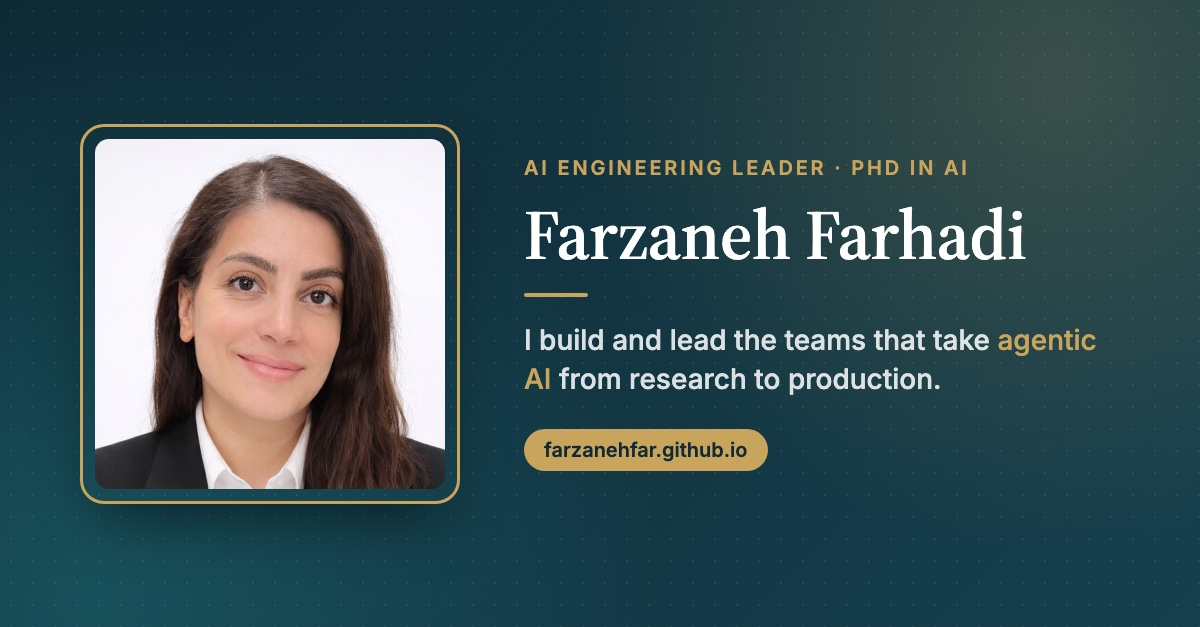
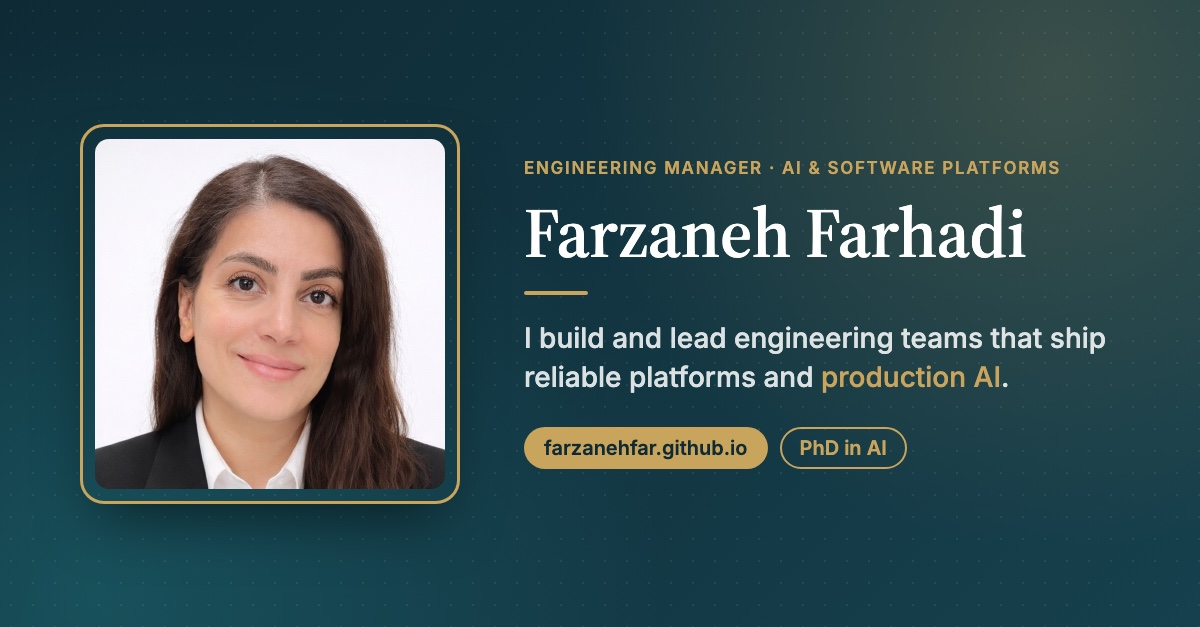
Add files via upload
updated a new blog post.

diff --git a/writing/building-an-agentic-ai-team.html b/writing/building-an-agentic-ai-team.html
@@ -1,0 +1,174 @@
+<!DOCTYPE html>
+<html lang="en-GB">
+<head>
+  <meta charset="UTF-8">
+  <meta name="viewport" content="width=device-width, initial-scale=1.0">
+  <title>Building an agentic AI team: hire some, grow the rest · Farzaneh Farhadi</title>
+  <meta name="description" content="How to build an agentic AI team: the roles you need, who to hire first, how to grow software engineers into AI engineers when you can't hire, and how to structure the team as it grows.">
+  <meta name="author" content="Farzaneh Farhadi">
+  <meta name="robots" content="index, follow, max-image-preview:large">
+  <meta name="theme-color" content="#0e2a35">
+  <link rel="canonical" href="https://farzanehfar.github.io/writing/building-an-agentic-ai-team.html">
+  <link rel="icon" href="../favicon.svg" type="image/svg+xml">
+  <meta property="og:type" content="article">
+  <meta property="og:site_name" content="Farzaneh Farhadi">
+  <meta property="og:url" content="https://farzanehfar.github.io/writing/building-an-agentic-ai-team.html">
+  <meta property="og:title" content="Building an agentic AI team: hire some, grow the rest">
+  <meta property="og:description" content="The roles you need, who to hire first, and how to grow AI engineers from the team you already have.">
+  <meta property="og:image" content="https://farzanehfar.github.io/assets/og-image.jpg">
+  <meta property="og:image:width" content="1200">
+  <meta property="og:image:height" content="627">
+  <meta property="og:locale" content="en_GB">
+  <meta property="article:published_time" content="2026-11-10">
+  <meta property="article:author" content="Farzaneh Farhadi">
+  <meta property="article:section" content="AI leadership">
+  <meta name="twitter:card" content="summary_large_image">
+  <meta name="twitter:title" content="Building an agentic AI team: hire some, grow the rest">
+  <meta name="twitter:description" content="The roles you need, who to hire first, and how to grow AI engineers from the team you already have.">
+  <meta name="twitter:image" content="https://farzanehfar.github.io/assets/og-image.jpg">
+  <script type="application/ld+json">
+  {
+    "@context": "https://schema.org",
+    "@type": "BlogPosting",
+    "headline": "Building an agentic AI team: hire some, grow the rest",
+    "description": "How to build an agentic AI team: the roles you need, who to hire first, how to grow software engineers into AI engineers when you can't hire, and how to structure the team as it grows.",
+    "datePublished": "2026-11-10",
+    "dateModified": "2026-11-10",
+    "inLanguage": "en-GB",
+    "articleSection": "AI leadership",
+    "keywords": "AI team structure, building an AI team, hiring AI engineers, AI engineering leadership, upskilling engineers, agentic AI team, Head of AI, AI organisation design",
+    "mainEntityOfPage": "https://farzanehfar.github.io/writing/building-an-agentic-ai-team.html",
+    "url": "https://farzanehfar.github.io/writing/building-an-agentic-ai-team.html",
+    "image": "https://farzanehfar.github.io/assets/headshot.jpg",
+    "author": { "@type": "Person", "@id": "https://farzanehfar.github.io/#person", "name": "Farzaneh Farhadi", "url": "https://farzanehfar.github.io/" },
+    "publisher": { "@type": "Person", "@id": "https://farzanehfar.github.io/#person", "name": "Farzaneh Farhadi" }
+  }
+  </script>
+  <link rel="preconnect" href="https://fonts.googleapis.com">
+  <link rel="preconnect" href="https://fonts.gstatic.com" crossorigin>
+  <link href="https://fonts.googleapis.com/css2?family=Inter:wght@400;500;600&family=Source+Serif+4:opsz,wght@8..60,400;8..60,600&display=swap" rel="stylesheet">
+  <link rel="stylesheet" href="../styles.css">
+</head>
+<body>
+<header class="site-header">
+  <div class="container">
+    <a class="brand" href="../index.html">Farzaneh Farhadi</a>
+    <nav class="nav">
+      <a href="../index.html#impact">Impact</a>
+      <a href="../index.html#writing">Writing</a>
+      <a class="nav-cta" href="../index.html#contact">Get in touch</a>
+    </nav>
+  </div>
+</header>
+
+<div class="article-hero">
+  <div class="inner">
+    <a class="back" href="../index.html#writing">← All writing</a>
+    <h1>Building an agentic AI team: hire some, grow the rest</h1>
+    <p class="meta">November 2026 · 8 min read · AI leadership</p>
+  </div>
+</div>
+
+<main class="article">
+  <p>Most advice about building an AI team starts with a hiring plan. Hire a few machine learning experts, add some engineers, find a product manager, and off you go.</p>
+
+  <p>In real life, it's rarely that tidy. In one role, I hired a lot of software engineers as the teams grew. In others, hiring simply wasn't an option, and the question became how to build AI capability with the people already in the room. Both situations taught me something, and I think the second one is talked about far too little.</p>
+
+  <p>Here's how I think about building a team that can deliver agentic AI, whether you have a hiring budget or not.</p>
+
+  <h2>An agentic AI team is mostly an engineering team</h2>
+
+  <p>This is the most important thing I've learned. When people picture an AI team, they picture researchers and data scientists. But look at what actually makes an agent work in production: connecting it to other systems, designing tools, handling failures, logging every step, keeping it fast and affordable, and testing it properly. That's software engineering.</p>
+
+  <p>The model is one component. Everything around it is engineering work. So the foundation of a good agentic AI team is strong software engineers who are curious about AI, supported by people with deep data and evaluation skills. That's good news, because it means your existing engineers are much closer to being AI engineers than they might think.</p>
+
+  <h2>The roles you need (which aren't always separate people)</h2>
+
+  <p>In a small team, one person often covers several of these. That's fine. What matters is that every role is covered by someone, on purpose.</p>
+
+  <table class="roles">
+    <thead><tr><th>Role</th><th>What they own</th></tr></thead>
+    <tbody>
+      <tr><td><strong>AI / software engineers</strong></td><td>The agent itself: workflows, tools, integrations, reliability and cost.</td></tr>
+      <tr><td><strong>Data scientists</strong></td><td>Data quality, model choice, and turning "is it good?" into something measurable.</td></tr>
+      <tr><td><strong>Evaluation owner</strong></td><td>Test sets, quality metrics and feedback loops. Often a hat someone wears, but it must be someone's.</td></tr>
+      <tr><td><strong>Platform engineer</strong></td><td>Shared infrastructure: model access, tracing, deployment and guardrails that every agent can reuse.</td></tr>
+      <tr><td><strong>Product owner</strong></td><td>Which problems are worth solving, and what "done" means for users.</td></tr>
+      <tr><td><strong>Domain experts</strong></td><td>The people who know the work the agent is helping with. Not on the team, but you need regular time with them.</td></tr>
+    </tbody>
+  </table>
+
+  <p>The one I see missing most often is the evaluation owner. When evaluation is everyone's job, it quietly becomes nobody's job, and the team ends up shipping on "it looks good". I've written more about that in <a href="validating-agentic-ai.html">How do you know your AI agent is right?</a></p>
+
+  <h2>If you can hire: who first?</h2>
+
+  <p>If I'm starting from a small base, my first hires are rarely researchers. I look for:</p>
+  <ul>
+    <li><strong>An engineer who has shipped LLM features to production</strong>, not just built demos. They've already felt the pain of latency, cost, odd failures and unhappy users, and they'll save the team months.</li>
+    <li><strong>Someone who is strong on data and evaluation</strong>, often a data scientist who enjoys building test sets and measuring quality as much as building models.</li>
+  </ul>
+  <p>Specialists in fine-tuning or research can come later, once you know the problems that really need them.</p>
+
+  <h3>What I look for in interviews</h3>
+
+  <p>I hired many software engineers in a previous role, and the qualities that predicted success there matter even more for AI work:</p>
+  <ul>
+    <li><strong>Judgement over buzzwords.</strong> Anyone can list frameworks. I want to hear when someone would <em>not</em> use an agent, and why.</li>
+    <li><strong>"How would you know it works?"</strong> This is my favourite question. Strong candidates talk about test cases, failure modes and measuring quality. Weaker ones talk about the model.</li>
+    <li><strong>Comfort with uncertainty.</strong> AI systems don't behave exactly the same way twice. People who need everything to be fully predictable struggle here.</li>
+    <li><strong>Clear writing.</strong> Prompts, tool descriptions and evaluation guidelines are all writing. Engineers who explain things clearly tend to build agents that behave clearly.</li>
+  </ul>
+  <p>A practical exercise works better than theory. Give candidates a real-looking agent output with a few subtle problems, and ask them to review it and suggest how they'd catch those problems automatically. You learn a lot about how they think in thirty minutes.</p>
+
+  <h2>If you can't hire: grow the team you have</h2>
+
+  <p>Hiring freezes, budget limits and long recruitment cycles are normal. Waiting for the perfect team isn't a strategy. In my experience, a team of good software engineers can become a capable AI team surprisingly quickly if you set it up well.</p>
+
+  <p><strong>Start with the curious.</strong> In every team there are a few engineers who are already experimenting with AI in their spare time. Give them the first real AI work. Their energy spreads, and they become the people others learn from.</p>
+
+  <p><strong>Learn on a real project, not a course.</strong> Courses help with vocabulary, but people really learn by shipping something. Pick a small, useful agent with a clear user and a clear measure of success, and get it into production. One shipped project teaches more than ten tutorials.</p>
+
+  <p><strong>Pair engineers with data scientists.</strong> Engineers learn to think about data and measurement. Data scientists learn about production, testing and reliability. Within a few months, both groups are noticeably stronger, and they start to speak the same language.</p>
+
+  <p><strong>Read failures together.</strong> A regular session where the team goes through bad agent outputs and works out what went wrong is one of the best learning tools I know. It builds intuition faster than anything else, and it improves the product at the same time.</p>
+
+  <p><strong>Protect learning time.</strong> If learning only happens after the "real work" is done, it never happens. Even a few hours a week, protected and visible, makes a difference. So does using AI coding tools day to day, which helps engineers build intuition for how these models behave.</p>
+
+  <p><strong>Make progress visible.</strong> Short demos where people show what they've built, including what didn't work, create momentum and give quieter team members a chance to be seen.</p>
+
+  <blockquote>The best AI engineers I've worked with weren't hired as AI engineers. They were good engineers who were given a real problem and room to learn.</blockquote>
+
+  <h2>Make engineers and data scientists one team</h2>
+
+  <p>The most common structural mistake I see is splitting the two groups: data scientists build something in a notebook, then "hand it over" to engineers to make it work in production. With agents, that handover is where quality gets lost.</p>
+
+  <p>What works better is one backlog, one definition of done and mixed pairs on the work. "Done" should include evaluation, not just working code. When both groups are responsible for the same outcome, the arguments about whose problem something is tend to disappear.</p>
+
+  <h2>How the structure changes as you grow</h2>
+
+  <ul>
+    <li><strong>Around 3 to 6 people:</strong> one team, one product focus. Everyone touches everything, and that's a strength.</li>
+    <li><strong>Around 8 to 15 people:</strong> split into teams around products or user problems, not around skills. At this point, a small shared platform starts to pay off, so each team doesn't rebuild model access, tracing and evaluation tools.</li>
+    <li><strong>Beyond 20 people:</strong> a platform team serving several product teams, team leads who can run their areas independently, and a regular forum where engineers and data scientists across teams share what's working. This is also when developing team leads from within becomes essential, because you can't be in every decision.</li>
+  </ul>
+
+  <h2>Mistakes I'd avoid</h2>
+  <ul>
+    <li>Hiring researchers before you have engineers who can ship.</li>
+    <li>Building an AI team that sits apart from the rest of engineering and product.</li>
+    <li>Leaving evaluation without a clear owner.</li>
+    <li>Treating "we can't hire" as "we can't do AI".</li>
+    <li>Measuring the team by demos instead of by what users actually rely on.</li>
+  </ul>
+
+  <p>Whether you're hiring ten people or none, the job is the same: put strong engineering at the centre, give evaluation a real owner, keep the team close to the people it serves, and help everyone grow. Good AI teams aren't just hired. Most of them are built.</p>
+
+  <div class="author-box">
+    <img src="../assets/headshot.jpg" alt="Farzaneh Farhadi, AI Engineering Leader" width="64" height="64" loading="lazy">
+    <p><strong>Farzaneh Farhadi, PhD</strong> is an AI engineering leader who has hired, grown and led engineering and data science teams, and builds agentic AI systems. <a href="../index.html">More about me →</a></p>
+  </div>
+
+  <p class="disclaimer">Views are my own and don't represent my employer or its clients.</p>
+</main>
+</body>
+</html>

diff --git a/index.html b/index.html
@@ -3,8 +3,8 @@
 <head>
   <meta charset="UTF-8">
   <meta name="viewport" content="width=device-width, initial-scale=1.0">
-  <title>Farzaneh Farhadi, PhD · AI Engineering Manager &amp; Leader · Agentic AI, LLMs · UK</title>
-  <meta name="description" content="Farzaneh Farhadi, PhD is an AI engineering manager and leader in the UK with 14+ years in software and AI, leading agentic AI and LLM teams in banking, fraud and financial crime. Open to Head of AI and Director of AI Engineering roles.">
+  <title>Farzaneh Farhadi, PhD · Engineering Manager, AI &amp; Software Platforms · UK</title>
+  <meta name="description" content="Farzaneh Farhadi, PhD is an engineering manager for AI and software platforms in the UK, with 14+ years in software and AI, leading multi-team engineering organisations, real-time platforms and production AI. Open to Director of Engineering, Head of Engineering and Head of AI roles.">
   <meta name="author" content="Farzaneh Farhadi">
   <meta name="robots" content="index, follow, max-image-preview:large">
   <meta name="theme-color" content="#0e2a35">
@@ -16,18 +16,18 @@
   <meta property="og:type" content="profile">
   <meta property="og:site_name" content="Farzaneh Farhadi">
   <meta property="og:url" content="https://farzanehfar.github.io/">
-  <meta property="og:title" content="Farzaneh Farhadi, PhD · AI Engineering Leader">
-  <meta property="og:description" content="I build and lead the teams that take agentic AI from research to production in regulated industries.">
+  <meta property="og:title" content="Farzaneh Farhadi, PhD · Engineering Manager, AI &amp; Software Platforms">
+  <meta property="og:description" content="I build and lead engineering teams that ship reliable platforms and production AI.">
   <meta property="og:image" content="https://farzanehfar.github.io/assets/og-image.jpg">
   <meta property="og:image:width" content="1200">
   <meta property="og:image:height" content="627">
-  <meta property="og:image:alt" content="Farzaneh Farhadi, AI Engineering Leader">
+  <meta property="og:image:alt" content="Farzaneh Farhadi, Engineering Manager, AI &amp; Software Platforms">
   <meta property="og:locale" content="en_GB">
   <meta property="profile:first_name" content="Farzaneh">
   <meta property="profile:last_name" content="Farhadi">
   <meta name="twitter:card" content="summary_large_image">
-  <meta name="twitter:title" content="Farzaneh Farhadi, PhD · AI Engineering Leader">
-  <meta name="twitter:description" content="I build and lead the teams that take agentic AI from research to production in regulated industries.">
+  <meta name="twitter:title" content="Farzaneh Farhadi, PhD · Engineering Manager, AI &amp; Software Platforms">
+  <meta name="twitter:description" content="I build and lead engineering teams that ship reliable platforms and production AI.">
   <meta name="twitter:image" content="https://farzanehfar.github.io/assets/og-image.jpg">
 
   <link rel="preconnect" href="https://fonts.googleapis.com">
@@ -50,7 +50,7 @@
         "@type": "ProfilePage",
         "@id": "https://farzanehfar.github.io/#profile",
         "url": "https://farzanehfar.github.io/",
-        "name": "Farzaneh Farhadi, PhD · AI Engineering Leader",
+        "name": "Farzaneh Farhadi, PhD · Engineering Manager, AI & Software Platforms",
         "isPartOf": { "@id": "https://farzanehfar.github.io/#website" },
         "mainEntity": { "@id": "https://farzanehfar.github.io/#person" }
       },
@@ -64,7 +64,7 @@
         "url": "https://farzanehfar.github.io/",
         "image": "https://farzanehfar.github.io/assets/headshot.jpg",
         "jobTitle": "Agentic AI Engineering Manager",
-        "description": "AI engineering manager and leader with 14+ years in software and AI, leading agentic AI and LLM teams for banking, fraud detection and financial crime.",
+        "description": "Engineering manager for AI and software platforms with 14+ years in software and AI, leading multi-team engineering organisations, high-volume real-time platforms and production agentic AI.",
         "worksFor": { "@type": "Organization", "name": "Mozn" },
         "hasOccupation": [
           {
@@ -125,12 +125,13 @@
   <section class="hero">
     <div class="container">
       <div>
-        <p class="eyebrow">AI Engineering Leader · PhD in Artificial Intelligence</p>
-        <h1>I build and lead the teams that take <em>agentic AI</em> from research to production.</h1>
+        <p class="eyebrow">Engineering Manager · AI &amp; Software Platforms · PhD in AI</p>
+        <h1>I build and lead engineering teams that ship reliable platforms and <em>production AI</em>.</h1>
         <p class="lead">
-          I'm Farzaneh Farhadi, an AI engineering manager and leader based in the UK. For 14 years
-          I've worked across software engineering, applied AI research and engineering leadership, most recently in banking, fraud and financial crime, where AI has to be
-          accurate, explainable and trusted by the people who use it every day.
+          I'm Farzaneh Farhadi, an engineering manager for AI and software platforms, based in the UK. Over 14 years I've led a
+          three-team engineering organisation on high-volume, real-time systems, and I now lead the
+          engineering of production AI for banking, fraud and financial crime, where systems have to be
+          reliable, explainable and trusted by the people who use them every day.
         </p>
         <div class="hero-actions">
           <a class="btn btn-gold" href="#contact">Get in touch</a>
@@ -138,7 +139,7 @@
         </div>
       </div>
       <div class="hero-photo">
-        <img src="assets/headshot.jpg" alt="Farzaneh Farhadi, PhD, AI Engineering Manager and Leader" width="700" height="700" fetchpriority="high">
+        <img src="assets/headshot.jpg" alt="Farzaneh Farhadi, PhD, Engineering Manager, AI and Software Platforms" width="700" height="700" fetchpriority="high">
       </div>
     </div>
   </section>
@@ -167,6 +168,18 @@
 
       <div class="cases">
         <article class="case">
+          <div class="org">Engineering leadership · Real-time platforms</div>
+          <h3>Leading a three-team, 26-person engineering organisation</h3>
+          <dl>
+            <dt>The challenge</dt>
+            <dd>Three teams building high-volume, real-time, event-driven systems, each with its own priorities, all depending on shared standards and on each other to deliver.</dd>
+            <dt>What I did</dt>
+            <dd>Ran the organisation through its team leads. Owned hiring, delivery and technical decisions; worked with architects and senior engineers to set design and delivery priorities across teams; raised the bar on monitoring, testing, incident management and releases; and introduced AI-assisted development tools.</dd>
+          </dl>
+          <p class="result">More reliable delivery across all three teams, with future team leads developed from within.</p>
+        </article>
+
+        <article class="case">
           <div class="org">Mozn · Banking &amp; Financial Crime</div>
           <h3>Agentic AI for fraud investigation</h3>
           <dl>
@@ -178,17 +191,6 @@
           <p class="result">Case review time cut from ~6 minutes to ~2 minutes (67% faster), now in production.</p>
         </article>
 
-        <article class="case">
-          <div class="org">Engineering leadership · Real-time platforms</div>
-          <h3>Leading a 26-person engineering organisation</h3>
-          <dl>
-            <dt>The challenge</dt>
-            <dd>Three teams building high-volume, real-time, event-driven systems, needing consistent engineering standards and strong leadership in every team.</dd>
-            <dt>What I did</dt>
-            <dd>Led 26 engineers, team leads and QA engineers. Owned hiring, delivery and technical decisions, coached engineers into leadership roles, and introduced AI-assisted development tools.</dd>
-          </dl>
-          <p class="result">Developed future team leads from within and made AI-assisted tools part of everyday engineering.</p>
-        </article>
 
         <article class="case">
           <div class="org">Newcastle University × Arup · Research to industry</div>
@@ -301,6 +303,12 @@
       <h2>Writing</h2>
       <p class="section-intro">Notes from building AI in the real world, and from leading the people who build it.</p>
       <div class="posts">
+        <a class="post-card" href="writing/building-an-agentic-ai-team.html">
+          <div class="meta">AI leadership · 8 min read</div>
+          <h3>Building an agentic AI team: hire some, grow the rest</h3>
+          <p>The roles you need, who to hire first, how to grow software engineers into AI engineers when you can't hire, and how the structure changes as you scale.</p>
+          <span class="more">Read article →</span>
+        </a>
         <a class="post-card" href="writing/agentic-ai-architecture.html">
           <div class="meta">Architecture · 10 min read</div>
           <h3>What actually matters when you design an agentic AI system</h3>
@@ -391,8 +399,8 @@
     <div class="container">
       <h2>Let's talk</h2>
       <p class="lead">
-        I'm open to Head of AI, Director of AI Engineering and senior AI engineering leadership roles,
-        remote or UK-based, where AI needs to work in production and be trusted.
+        I'm open to Director of Engineering, Head of Engineering and Head of AI roles, remote or UK-based,
+        where reliable platforms and production AI need to work and be trusted.
       </p>
       <div class="hero-actions">
         <a class="btn btn-gold" href="mailto:Farhadi.Farzane@gmail.com">Email me</a>

diff --git a/styles.css b/styles.css
@@ -293,3 +293,7 @@ footer a:hover { color: var(--gold); }
 @media (max-width: 780px) { .article .diagram { margin: 2em 0; padding: 12px; } }
 .post-card:first-child { grid-column: span 2; }
 @media (max-width: 860px) { .post-card:first-child { grid-column: auto; } }
+.article table.roles { width: 100%; border-collapse: collapse; margin: 1.5em 0; font-size: .98rem; background: var(--surface); border-radius: 12px; overflow: hidden; box-shadow: 0 10px 30px -22px rgba(14, 42, 53, .3); }
+.article table.roles th { text-align: left; background: var(--navy); color: var(--gold); font-weight: 600; font-size: .85rem; letter-spacing: .04em; text-transform: uppercase; padding: 12px 16px; }
+.article table.roles td { padding: 12px 16px; border-top: 1px solid var(--line); vertical-align: top; line-height: 1.5; }
+.article table.roles td:first-child { width: 34%; color: var(--navy); }
